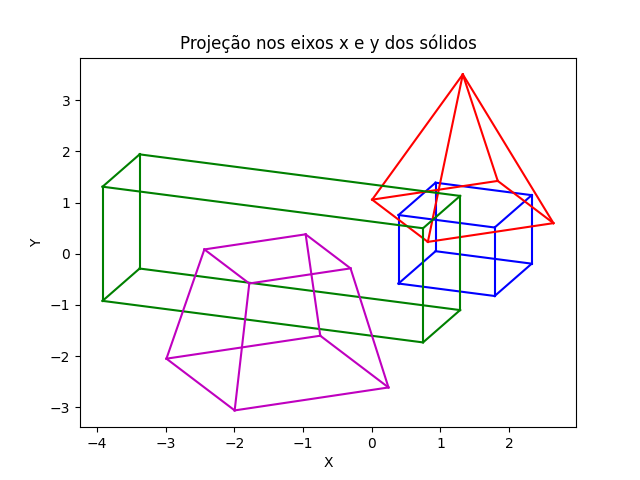
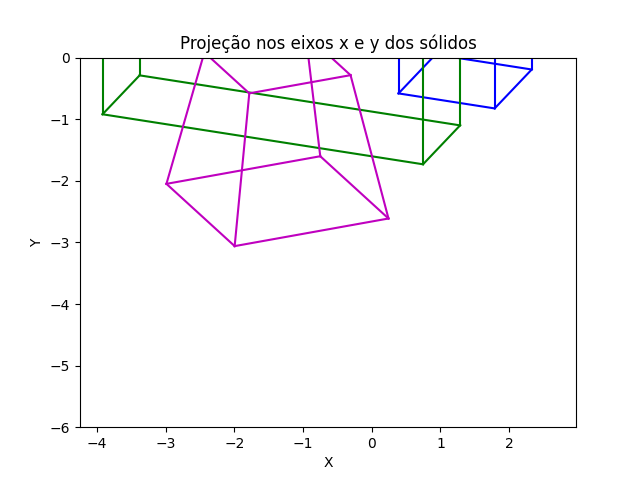
com volume de visão | alterando nome das imagens formadas

diff --git a/trabalho2/src/PlotaSolido.py b/trabalho2/src/PlotaSolido.py
@@ -63,15 +63,19 @@ def plota_solido(solido: Solido, com_arestas=True, com_pontos=False, com_eixos=T
     :return: None
     """
     fig, ax = inicia_grafico()
+    nome_imagem = solido.titulo
 
     if com_pontos:
         plota_pontos(solido, ax)
+        nome_imagem = nome_imagem + "ComPontos"
 
     if com_arestas:
         plota_arestas(solido, ax)
+        # nome_imagem = nome_imagem + "ComArestas"
 
     if com_eixos:
         plota_eixos(ax)
+        nome_imagem = nome_imagem + "ComEixos"
 
     ax.set_title(solido.titulo)
 
@@ -83,12 +87,12 @@ def plota_solido(solido: Solido, com_arestas=True, com_pontos=False, com_eixos=T
     ax.set_ylim(-5, 5)
     ax.set_zlim(-5, 5)
 
-    plt.savefig("images/" + solido.titulo + ".png")
+    plt.savefig("images/" + nome_imagem + ".png")
     plt.show()
 
 
 def plota_solidos(solidos: List[Solido], com_arestas=True, com_pontos=False, com_eixos=True,
-                  titulo: str = "image", *args) -> None:
+                  titulo: str = "image", tem_volume_visao=False) -> None:
     """
     Recebe uma lista de sólidos e os plota em um mesmo gráfico 3D
     :param solidos: Lista de sólidos a serem plotados
@@ -99,16 +103,20 @@ def plota_solidos(solidos: List[Solido], com_arestas=True, com_pontos=False, com
     :return: None
     """
     fig, ax = inicia_grafico()
+    nome_imagem = titulo
 
     for solido in solidos:
         if com_pontos:
             plota_pontos(solido, ax)
+            nome_imagem = nome_imagem + "ComPontos"
 
         if com_arestas:
             plota_arestas(solido, ax)
+            # nome_imagem = nome_imagem + "ComArestas"
 
     if com_eixos:
         plota_eixos(ax)
+        nome_imagem = nome_imagem + "ComEixos"
 
     ax.set_title(titulo)
 
@@ -116,9 +124,14 @@ def plota_solidos(solidos: List[Solido], com_arestas=True, com_pontos=False, com
     ax.set_ylabel('Y')
     ax.set_zlabel('Z')
 
-    ax.set_xlim(-6, 6)
-    ax.set_ylim(-6, 6)
-    ax.set_zlim(-6, 6)
+    if tem_volume_visao:
+        ax.set_xlim(0, 6)
+        ax.set_ylim(-6, 0)
+        ax.set_zlim(0, 6)
+    else:
+        ax.set_xlim(-6, 6)
+        ax.set_ylim(-6, 6)
+        ax.set_zlim(-6, 6)
 
-    plt.savefig("images/" + titulo + ".png")
+    plt.savefig("images/" + nome_imagem + ".png")
     plt.show()

diff --git a/trabalho2/questao3.py b/trabalho2/questao3.py
@@ -91,7 +91,7 @@ piramideBaseQuadrada.multiplicacao_por_matriz(V)
 paralelepipedo.multiplicacao_por_matriz(V)
 troncoPiramide.multiplicacao_por_matriz(V)
 
-plota_solidos(solidos, titulo="Sólidos no SCC")
+plota_solidos(solidos, titulo="Sólidos no SCC", tem_volume_visao=True)
 
 # Debug - Distância entre o vértice V1 do cubo e o origem das coordenadas do SCC (0, 0, 0)
 primero_vertice_cubo = cubo.vertices["V1"]

diff --git a/trabalho2/questao4.py b/trabalho2/questao4.py
@@ -29,6 +29,8 @@ ax = fig.add_subplot(111)
 ax.set_title("Projeção nos eixos x e y dos sólidos")
 ax.set_xlabel('X')
 ax.set_ylabel('Y')
+# ax.set_xlim(-6, 6)
+ax.set_ylim(-6, 0)
 for solido in solidos:
     # Plotando vértices
     # for nome, vertice in solido.vertices.items():
